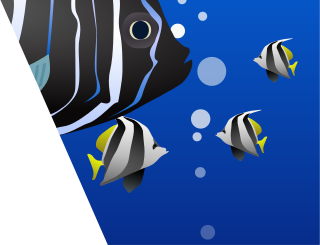
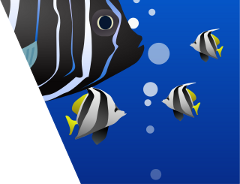
Changes: Working black-blue fish board

diff --git a/qml/KidPuzzleSymbian/BoardBBFish.qml b/qml/KidPuzzleSymbian/BoardBBFish.qml
@@ -6,23 +6,23 @@ Board {
 
     Bit {
         source: "bbf_tail.png"
-        dockX: UI.leftMargin + 30; dockY:10; boardX: UI.leftMargin + 128; boardY: 1; dockW: 55; dockH: 90
+        dockX: UI.leftMargin + 15; dockY:0; boardX: UI.leftMargin + 97; boardY: 1; dockW: 55; dockH: 65
     }
     Bit {
         source: "bbf_head.png"
-        dockX: UI.leftMargin + 10; dockY: 110; boardX: UI.leftMargin + 480; boardY: UI.screenHeight - 245; dockW: 104; dockH: 80
+        dockX: UI.leftMargin + 2; dockY: 75; boardX: UI.leftMargin + 361; boardY: 176; dockW: 90; dockH: 65
     }
     Bit {
         source: "bbf_fin.png"
-        dockX: UI.leftMargin + 10; dockY: 210; boardX: UI.leftMargin + 128; boardY: 0; dockW: 96; dockH: 80
+        dockX: UI.leftMargin + 2; dockY: 150; boardX: UI.leftMargin + 97; boardY: 0; dockW: 90; dockH: 65
     }
     Bit {
         source: "bbf_belly.png"
-        dockX: UI.leftMargin + 10; dockY: 310; boardX: UI.leftMargin + 230; boardY: UI.screenHeight - 250; dockW: 100; dockH: 70
+        dockX: UI.leftMargin + 2; dockY: 225; boardX: UI.leftMargin + 173; boardY: 172; dockW: 90; dockH: 65
     }
     Bit {
         source: "bbf_forehead.png"
-        dockX: UI.leftMargin + 10; dockY: 400; boardX: UI.leftMargin + 479; boardY: 0; dockW: 100; dockH: 73
+        dockX: UI.leftMargin + 2; dockY: 295; boardX: UI.leftMargin + 361; boardY: 0; dockW: 90; dockH: 65
     }
 }
 
